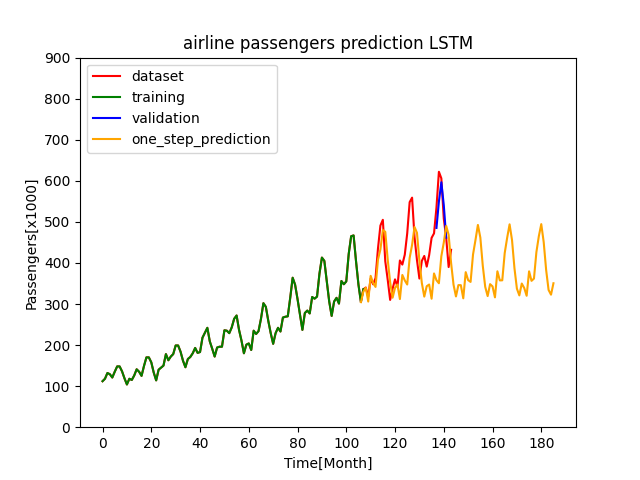
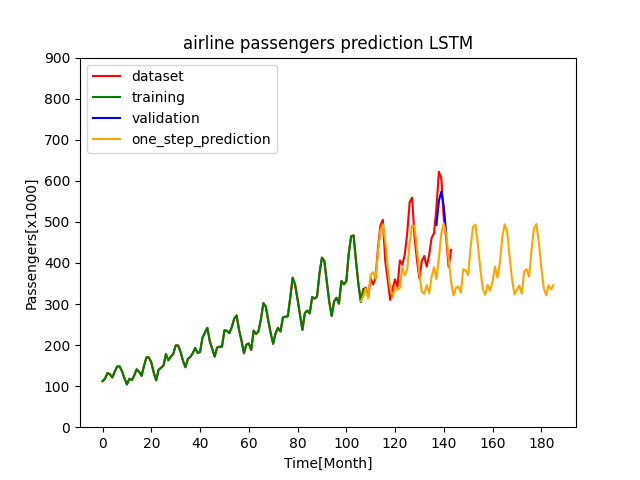
refactor model to oop approach in airline_passengers_keras_lstm

Changed region(s): [[0.5625, 0.4688, 0.875, 0.625], [0.6875, 0.375, 0.7188, 0.4375], [0.6562, 0.4375, 0.6875, 0.4688]]

diff --git a/TimeSeriesPrediction/UnivariatTimeSeriesForecast/AirlinePassengers/Keras/LSTM/airline_passengers_keras_lstm.py b/TimeSeriesPrediction/UnivariatTimeSeriesForecast/AirlinePassengers/Keras/LSTM/airline_passengers_keras_lstm.py
@@ -18,7 +18,9 @@ def main():
     train_timeseries, train_targets = TimeSeriesGenerator(scaled_train, lookback).create_timeseries()
     test_timeseries, test_targets = TimeSeriesGenerator(scaled_test, lookback).create_timeseries()
 
-    model = create_LSTM_model(train_timeseries, train_targets, lookback)
+    model = LSTMModel(lookback)
+    model.compile(optimizer=tf.keras.optimizers.Adam(0.001), loss='mean_squared_error')
+    model.fit(train_timeseries, train_targets, epochs=1000, batch_size=1)
 
     validation_results = validation_forecast(model, test_timeseries)
 
@@ -54,28 +56,32 @@ def main():
 # Bidirectionales lernen - Zeitreihe umkehren - https://keras.io/examples/nlp/bidirectional_lstm_imdb/
 # Kompletten daten fürs Training nehmen
 # Masked traning - Lücken in Traningsdaten schließen
-def create_LSTM_model(inputs, targets, lookback):
-    model = tf.keras.Sequential()
-    model.add(tf.keras.layers.LSTM(units=50,
+class LSTMModel(tf.keras.Model):
+    def __init__(self, lookback):
+        super().__init__()
+        self.lstm = tf.keras.layers.LSTM(units=50,
                                    activation="tanh",
                                    recurrent_activation="sigmoid",
                                    input_shape=(lookback, 1),
                                    kernel_initializer="glorot_uniform",
                                    recurrent_initializer="orthogonal",
                                    bias_initializer="zeros",
-                                   ))
-    model.add(tf.keras.layers.Dense(units=1,
-                                    kernel_initializer=tf.keras.initializers.RandomNormal(stddev=0.01),
-                                    bias_initializer=tf.keras.initializers.Zeros()))
-    model.compile(optimizer=tf.keras.optimizers.Adam(0.001), loss='mean_squared_error')
-    model.fit(inputs, targets, epochs=1000, batch_size=1)
-    return model
+                                   )
+        self.dense1 = tf.keras.layers.Dense(units=1,
+                                            activation="relu",
+                                            kernel_initializer=tf.keras.initializers.RandomNormal(stddev=0.01),
+                                            bias_initializer=tf.keras.initializers.Zeros())
+
+    def call(self, inputs):
+        x = self.lstm(inputs)
+        x = self.dense1(x)
+        return x
 
 
 def one_step_ahead_forecast(model, current_value, number_of_predictions):
     one_step_ahead_forecast = list()
     for element in range(0, number_of_predictions):
-        prediction = model.predict([current_value])
+        prediction = model.predict(current_value)
         one_step_ahead_forecast.append(prediction[0][0])
         current_value = np.delete(current_value, 0)
         current_value = np.append(current_value, prediction)
